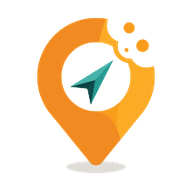
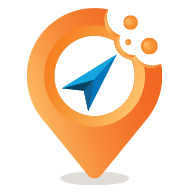
Add files via upload

diff --git a/sw.js b/sw.js
@@ -1,4 +1,4 @@
-const CACHE_NAME = 'kaki-jalan-v26';
+const CACHE_NAME = 'kaki-jalan-v27';
 const ASSETS = ['./index.html', './manifest.json', './icon-192.png', './icon-512.png', './splash-logo.png'];
 
 self.addEventListener('install', (event) => {